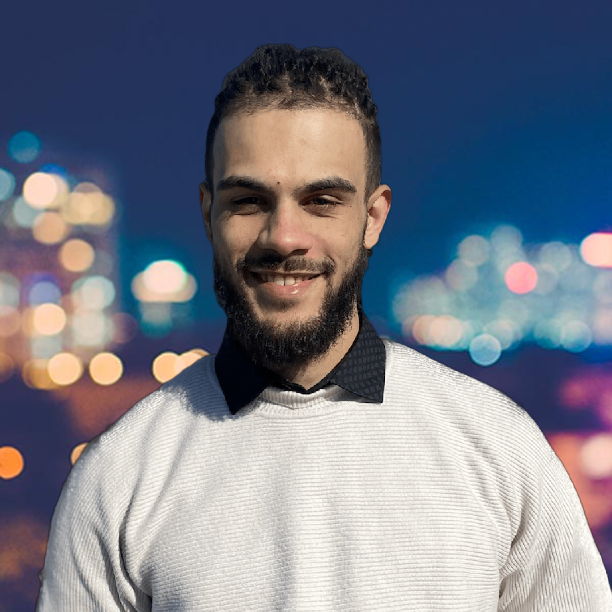
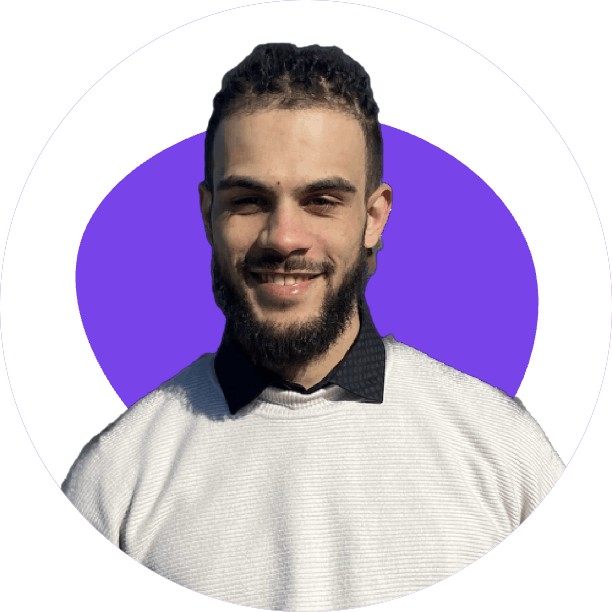
modifications des text pour la version mobile. Modification de la photo

diff --git a/components/Navbar.jsx b/components/Navbar.jsx
@@ -32,7 +32,7 @@ const Navbar = () => {
           : "fixed w-full h-20 z-1 bg-[#ecf0f3]"
       }
     >
-      <div className="flex justify-between items-center w-full h-full px-2 2xl:px-16">
+      <div className="flex justify-between items-center w-full h-full px-6 2xl:px-16">
         <Link href="#main">
           <Image src={logo} alt="/" width="80" height="30" />
         </Link>
@@ -71,7 +71,7 @@ const Navbar = () => {
         <div
           className={
             nav
-              ? "md:hidden fixed z-[100] left-0 top-0 w-[75%] sm:w-[60%] md:w-[45%] h-screen bg-[#ecf0f3] p-10 ease-in duration-500"
+              ? "md:hidden fixed z-[100] left-0 top-0 w-[75%] sm:w-[60%] md:w-[45%] h-[100%] bg-[#ecf0f3] p-10 ease-in duration-500"
               : "fixed left-[-100%] top-0 p-10 ease-in duration-500"
           }
         >
@@ -100,7 +100,7 @@ const Navbar = () => {
             <div className="border-b border-gray-300 my-4">
               <p className="w-[85%] md:w-[90] py-4">
                 Des projets, des questions ?
-                <span className="text">contactez moi</span>
+                <span className="text-[#5651e5]"> contactez moi</span>
               </p>
             </div>
           </div>
@@ -142,17 +142,17 @@ const Navbar = () => {
                   target="_blank"
                 >
                   <div className="rounded-full shadow-lg shadow-gray-400 p-3 cursors-pointer hover:scale-105 ease-in duration-300">
-                    <FaLinkedinIn />
+                    <FaLinkedinIn className="text-[#5651e5]"/>
                   </div>
                 </a>
                 <a href="https://github.com/Dteeech" target="_blank">
                   <div className="rounded-full shadow-lg shadow-gray-400 p-3 cursors-pointer hover:scale-105 ease-in duration-300">
-                    <FaGithub />
+                    <FaGithub className="text-[#5651e5]"/>
                   </div>
                 </a>
                 <a href="mailto:isaak.marshall6@gmail.com" target="_blank">
                   <div className="rounded-full shadow-lg shadow-gray-400 p-3 cursors-pointer hover:scale-105 ease-in duration-300">
-                    <AiOutlineMail />
+                    <AiOutlineMail className="text-[#5651e5]"/>
                   </div>
                 </a>
               </div>

diff --git a/components/Main.jsx b/components/Main.jsx
@@ -1,7 +1,7 @@
 import Image from "next/image";
 import Link from "next/link";
 import React from "react";
-import arrow from "../public/assets/icons8-flèche-bas-50.png"
+import arrow from "../public/assets/icons8-flèche-bas-50.png";
 import { AiOutlineMail } from "react-icons/ai";
 import { BsFillPersonLinesFill } from "react-icons/bs";
 import { FaLinkedinIn, FaGithub } from "react-icons/fa";
@@ -9,15 +9,15 @@ import { FaLinkedinIn, FaGithub } from "react-icons/fa";
 const Main = () => {
   return (
     <div id="main" className="w-full h-screen text-center">
-      <div className="max-w-[1240px] w-full h-full mx-auto p-2 flex justify-center items-center">
+      <div className="max-w-[1240px] w-full h-full mx-auto px-2 sm:px-4 md:px-8 flex justify-center items-center">
         <div>
           <p className="uppercase text-sm tracking-widest text-gray-600 ">
             Et si on parlait web ?
           </p>
-          <h1 className="py-4 text-gray-700">
+          <h1 className="py-4 text-gray-700 text-xl sm:text-4xl">
             Bonjour, je m'appelle <span className="text-[#5651e5]">Isaac</span>
           </h1>
-          <h2 className="py-4 text-gray-700 animate-typing overflow-hidden whitespace-nowrap font-mono text-2xl font-bold ">
+          <h2 className="py-4 text-gray-700 text-xl sm:text-4xl animate-typing overflow-hidden whitespace-nowrap font-mono text-2xl font-bold ">
             Je suis développeur front-end
           </h2>
           <p className="py-4 text-gray-600 max-w-[70%] m-auto">
@@ -47,11 +47,7 @@ const Main = () => {
           </div>
           <Link href="#about">
             <div className="flex items-center mt-20 justify-center cursor-pointer hover:scale-125 ease-in duration-300">
-              <Image
-                src={arrow}
-                width="50"
-                height="50"
-              />
+              <Image src={arrow} width="50" height="50" />
             </div>
           </Link>
         </div>

diff --git a/tailwind.config.js b/tailwind.config.js
@@ -13,6 +13,22 @@ module.exports = {
           'conic-gradient(from 180deg at 50% 50%, var(--tw-gradient-stops))',
       },
     },
+    screens: {
+      'sm': '640px',
+      // => @media (min-width: 640px) { ... }
+
+      'md': '768px',
+      // => @media (min-width: 768px) { ... }
+
+      'lg': '1024px',
+      // => @media (min-width: 1024px) { ... }
+
+      'xl': '1280px',
+      // => @media (min-width: 1280px) { ... }
+
+      '2xl': '1536px',
+      // => @media (min-width: 1536px) { ... }
+    }
   },
   plugins: [],
 }
